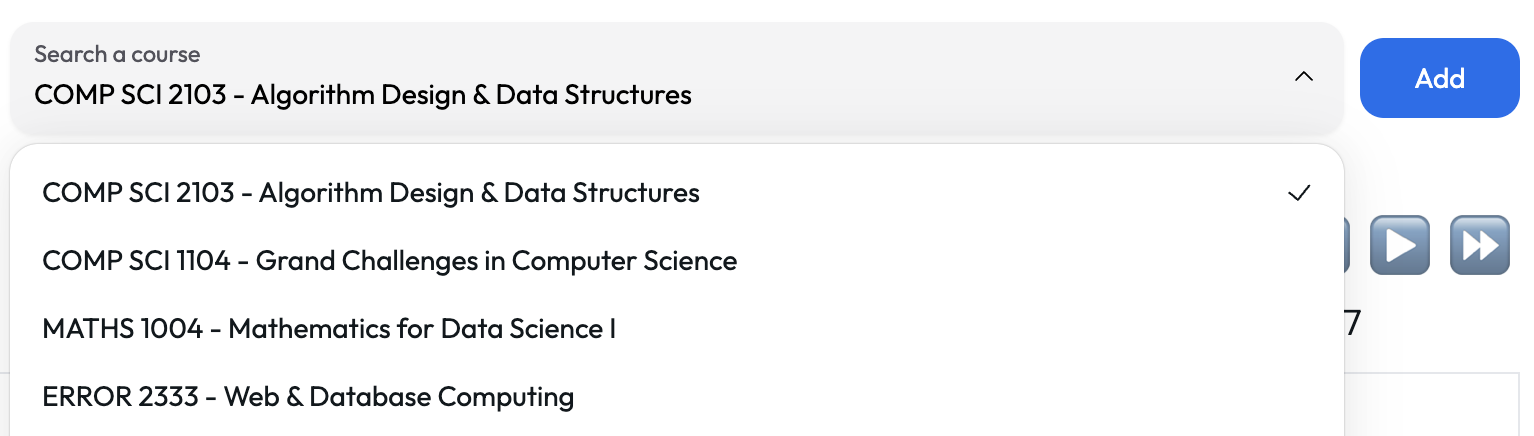
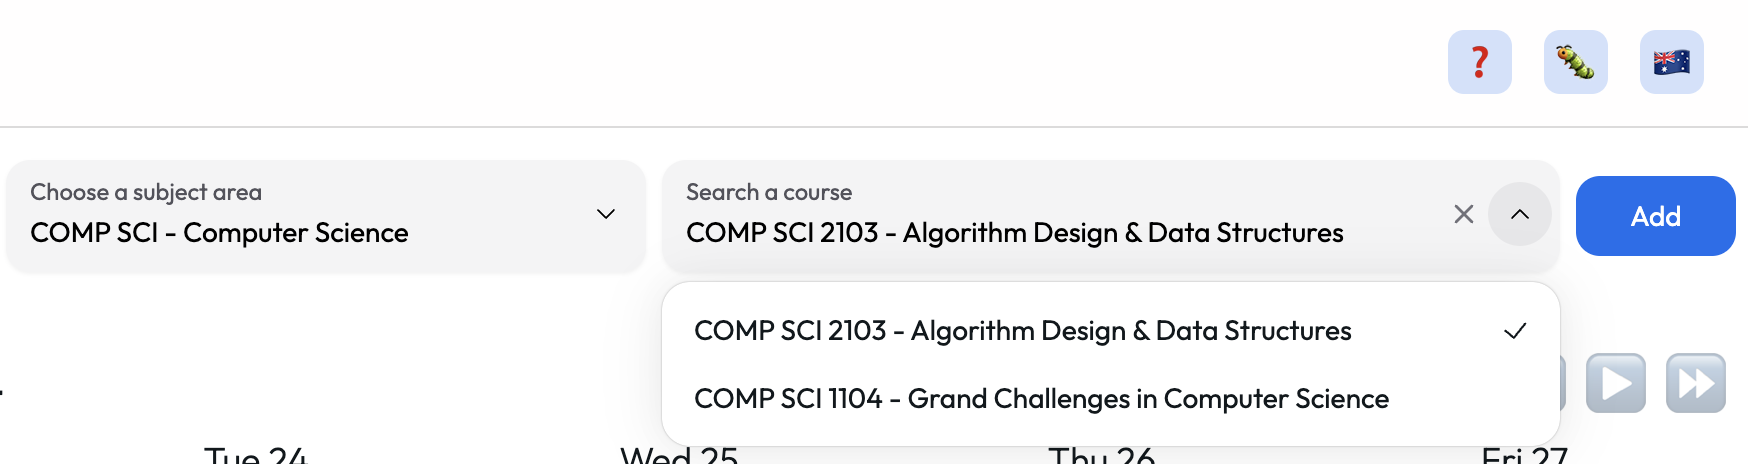
feat(help): update step 2 with subject area

diff --git a/src/mocks/handlers.ts b/src/mocks/handlers.ts
@@ -90,7 +90,8 @@ export const handlers = [
 	http.get('/api/subjects', async () => {
 		return HttpResponse.json({
 			subjects: deduplicateArray(COURSES.map(({ name }) => name.subject)).map(
-				(code, i) => ({ code, name: `Subject ${i}` }),
+				// (code, i) => ({ code, name: `Subject ${i}` }),
+				(code, i) => ({ code, name: `Computer Science` }),
 			),
 		});
 	}),
